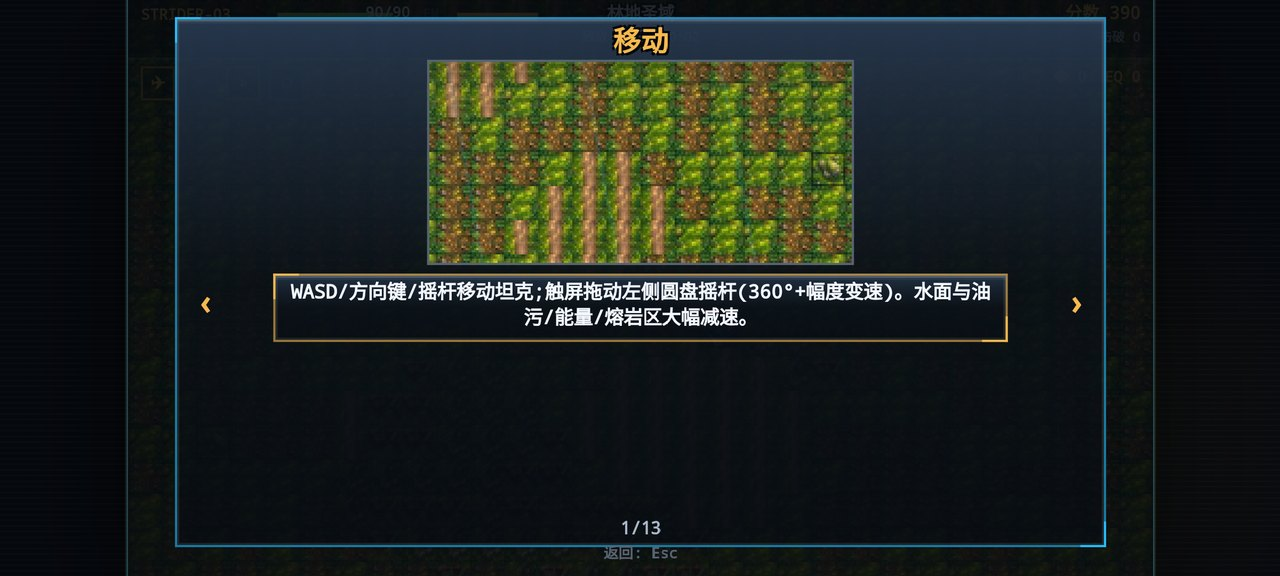
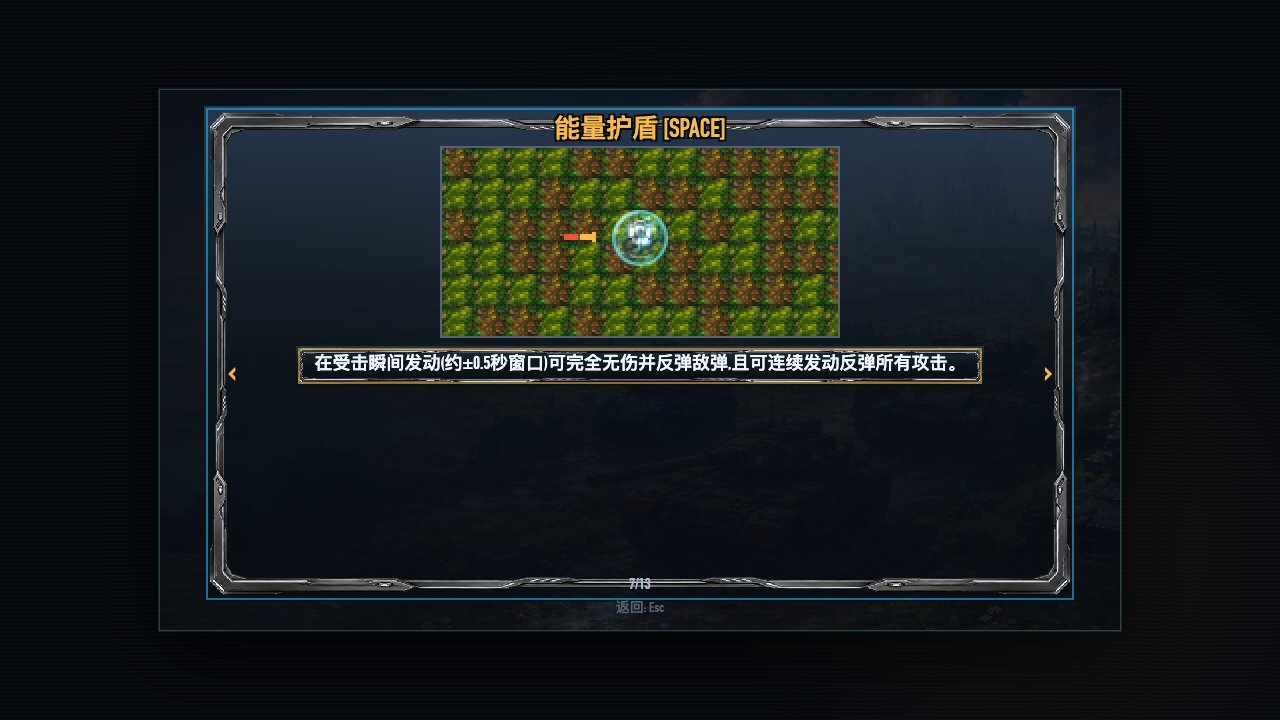
docs: README v1.8.1 — 全套新 UI 截图 + 文字说明
- 重拍 14 张 + 新增手机触屏 1 张 (tools/regress/shot_readme.js, 1280x720/640x360 jpg):
  新标题大图/九宫格面板/触屏图标按钮/整备页重排/多锁新准星(主框+节点+×N)
- v18-upgrade5.jpg 移除 (旧整备布局, 被 upgrade.jpg 取代); 新增 phone-battle.jpg
- 文字: 版本行 v1.8.1 UI 全面换装, 新增特色条目, 玻璃×金属九宫格 UI,
  触屏按钮即 HUD 描述, 资产管线补 ai-v18-layers/ai-v18-ui

Changed region(s): [[0.125, 0.0, 0.875, 0.9688]]

diff --git a/tools/regress/shot_readme.js b/tools/regress/shot_readme.js
@@ -1,0 +1,178 @@
+/* README 截图重拍 (v1.8.1 UI): node tools/regress/shot_readme.js
+   全部 1280x720 jpg (手机张 640x360) 直出 docs/img/。逐场景 try/catch, 结尾校验清单。 */
+'use strict';
+const fs = require('fs');
+const path = require('path');
+const { pathToFileURL } = require('url');
+const { chromium } = require('/Users/rancequan/.hermes/hermes-agent/node_modules/playwright-core');
+
+const CHROME_CANDIDATES = [
+  process.env.HOME + '/Library/Caches/ms-playwright/chromium-1234/chrome-mac-arm64/Google Chrome for Testing.app/Contents/MacOS/Google Chrome for Testing',
+  process.env.HOME + '/Library/Caches/ms-playwright/chromium-1228/chrome-mac/chrome-mac/Google Chrome for Testing.app/Contents/MacOS/Google Chrome for Testing',
+];
+const exe = CHROME_CANDIDATES.find(p => fs.existsSync(p));
+if (!exe) { console.error('no chromium found'); process.exit(1); }
+const GAME = path.join(__dirname, '..', '..', 'index.html');
+const IMG = path.join(__dirname, '..', '..', 'docs', 'img');
+
+(async () => {
+  fs.mkdirSync(IMG, { recursive: true });
+  const browser = await chromium.launch({ executablePath: exe, headless: true });
+  const shots = [];
+  async function snap(page, name, qw, qh) {
+    await page.screenshot({ type: 'jpeg', quality: 85, path: path.join(IMG, name) });
+    shots.push(name);
+    console.log('shot', name);
+  }
+  const waitPlay = (page) => page.waitForFunction(() => ST.state === 'play', null, { timeout: 9000 }).catch(() => console.log('WARN play timeout'));
+  const waitImg = (page, key) => page.waitForFunction(k => window.G.v18ui.info().loaded.includes(k), key, { timeout: 5000 }).catch(() => console.log('WARN img ' + key));
+
+  /* ---------- 桌面键盘 1280x720 ---------- */
+  const page = await browser.newPage({ viewport: { width: 1280, height: 720 } });
+  page.on('pageerror', e => console.log('PAGEERROR:', e.message));
+  await page.goto(pathToFileURL(GAME).href);
+  await page.waitForTimeout(700);
+
+  // 1. 标题 (新大图)
+  await page.evaluate(() => window.G.visualScene('title'));
+  await waitImg(page, 'title');
+  await page.waitForTimeout(1300);
+  await snap(page, 'title.jpg');
+
+  // 2. 选机体 (九宫格面板+实车预览)
+  await page.evaluate(() => { toTitle(); window.G.start(); });
+  await page.waitForTimeout(800);
+  await snap(page, 'hull-select.jpg');
+
+  // 3. 选僚机
+  await page.evaluate(() => menuActivate());
+  await page.waitForTimeout(600);
+  await snap(page, 'wingman-select.jpg');
+
+  // 4. 雪原战斗 (键盘图标芯片 HUD)
+  await page.evaluate(() => window.G.visualScene('combat'));
+  await page.waitForTimeout(700);
+  await snap(page, 'battle-snow.jpg');
+
+  // 5. 重装等离子护罩
+  await page.evaluate(() => { window.G.hull('heavy'); window.G.visualScene('shield'); });
+  await page.waitForTimeout(600);
+  await snap(page, 'shield-orb.jpg');
+
+  // 6. BOSS 与护卫队
+  await page.evaluate(() => window.G.visualScene('boss'));
+  await page.waitForTimeout(700);
+  await snap(page, 'boss-escort.jpg');
+
+  // 7. 战地整备 (新布局: 背景大图+维修台坦克+右侧面板)
+  await page.evaluate(() => {
+    MENU = null; RUN.pts = 8; RUN.up.hp = 5; RUN.up.spd = 2; RUN.up.atk = 12; RUN.up.def = 3; RUN.up.cdr = 7;
+    ST.state = 'upgrade'; ST.upg = { sel: 1, from: 'clear' };
+  });
+  await waitImg(page, 'dep');
+  await page.waitForTimeout(800);
+  await snap(page, 'upgrade.jpg');
+
+  // 8. 帮助页 (护盾页, 九宫格面板)
+  await page.evaluate(() => { toTitle(); openMenu('help'); MENU.page = 6; });
+  await page.waitForTimeout(600);
+  await snap(page, 'help.jpg');
+
+  // 9. 多锁导弹 (主锁定框+叠弹节点+×N)
+  await page.evaluate(() => {
+    window.G.visualScene('free');
+    const d1 = window.G.dummy('tank', player.x - 70, player.y - 20); d1.stun = 99; d1.hp = d1.maxHp = 3000;
+    const d2 = window.G.dummy('truck', player.x + 78, player.y + 26); d2.stun = 99; d2.hp = d2.maxHp = 3000;
+    player.mslCd = 0;
+  });
+  await page.waitForTimeout(200);
+  await page.keyboard.down('KeyL');
+  await page.waitForTimeout(950);
+  await snap(page, 'v18-multilock.jpg');
+  await page.keyboard.up('KeyL');
+
+  // 10. 护盾弹反粒子漩涡
+  await page.evaluate(() => { window.G.visualScene('free'); player.shieldT = 2; window.G.parryProbe(true); });
+  await page.waitForTimeout(500);
+  await snap(page, 'v18-swirl.jpg');
+
+  // 11. 冰面漂移 (彗尾+喷雪) — 沿冰河带行驶
+  await page.evaluate(() => {
+    window.G.skipTo(4);
+  });
+  await waitPlay(page);
+  await page.evaluate(() => {
+    window.G.visualScene('free');
+    const bandY = tx => { for (let ty = 1; ty < MAPH - 1; ty++) if (terr.m[ty * MAPW + tx] === 3) return ty; return -1; };
+    let bx = -1, bs = 1e9;
+    for (let tx = 3; tx < MAPW - 9; tx++) {
+      const ys = []; for (let k = 0; k < 7; k++) ys.push(bandY(tx + k));
+      if (ys.some(y => y < 0)) continue;
+      const spread = Math.max(...ys) - Math.min(...ys);
+      if (spread < bs) { bs = spread; bx = tx; }
+    }
+    if (bx >= 0) { const ty = bandY(bx + 3); window.G.tp((bx + 1) * TS, ty * TS + TS / 2); player.bodyA = player.ta = 0; }
+    window.__follow = setInterval(() => { const ty = bandY(Math.floor(player.x / TS)); if (ty > 0) player.y += ((ty * TS + TS / 2) - player.y) * 0.2; }, 30);
+  });
+  await page.keyboard.down('KeyD');
+  await page.keyboard.down('ShiftLeft');
+  await page.waitForTimeout(1500);
+  await snap(page, 'v18-drift.jpg');
+  await page.keyboard.up('KeyD');
+  await page.keyboard.up('ShiftLeft');
+  await page.evaluate(() => clearInterval(window.__follow));
+
+  /* ---------- 触屏 1280x720 ---------- */
+  const tp = await browser.newPage({ viewport: { width: 1280, height: 720 }, hasTouch: true, isMobile: true });
+  tp.on('pageerror', e => console.log('PAGEERROR(touch):', e.message));
+  await tp.goto(pathToFileURL(GAME).href);
+  await tp.waitForTimeout(700);
+  await tp.evaluate(() => { G.set('touch', 'on'); window.G.skipTo(0); });
+  await waitPlay(tp);
+
+  // 12. 沙漠触屏战斗 (图标按钮+双摇杆)
+  await tp.evaluate(() => {
+    window.G.visualScene('free');
+    const d1 = window.G.dummy('tank', player.x - 70, player.y - 40); d1.stun = 99; d1.hp = d1.maxHp = 900;
+    const d2 = window.G.dummy('truck', player.x + 84, player.y + 20); d2.stun = 99; d2.hp = d2.maxHp = 700;
+    window.G.dropTest('part'); window.G.dropTest('heal');
+    COMBO.n = 27; COMBO.tier = 2; COMBO.t = 5;
+  });
+  await tp.waitForTimeout(600);
+  await snap(tp, 'battle-desert.jpg');
+
+  // 13. 双摇杆战斗 (工业废墟)
+  await tp.evaluate(() => { window.G.visualScene('combat'); });
+  await tp.waitForTimeout(700);
+  await snap(tp, 'v18-dualstick.jpg');
+
+  // 14. 帮助页触屏按钮
+  await tp.evaluate(() => { toTitle(); openMenu('help'); MENU.page = 6; });
+  await tp.touchscreen.tap(60, 360);           // 触发 inMode=touch (左翻页区)
+  await tp.evaluate(() => { MENU.page = 6; });
+  await tp.waitForTimeout(500);
+  await snap(tp, 'v18-help-touch.jpg');
+
+  /* ---------- 手机 640x360 ---------- */
+  const ph = await browser.newPage({ viewport: { width: 640, height: 360 }, hasTouch: true, isMobile: true });
+  ph.on('pageerror', e => console.log('PAGEERROR(phone):', e.message));
+  await ph.goto(pathToFileURL(GAME).href);
+  await ph.waitForTimeout(700);
+  await ph.evaluate(() => { G.set('touch', 'on'); window.G.skipTo(0); });
+  await waitPlay(ph);
+  // 15. 手机触屏: 按钮即 HUD (图标+充能环+×N)
+  await ph.evaluate(() => { window.G.visualScene('hud'); player.mslCd = 0; });
+  await ph.waitForTimeout(500);
+  await ph.keyboard.down('KeyL');
+  await ph.waitForTimeout(900);
+  await snap(ph, 'phone-battle.jpg');
+  await ph.keyboard.up('KeyL');
+
+  await browser.close();
+  const expect = ['title.jpg', 'hull-select.jpg', 'wingman-select.jpg', 'battle-snow.jpg', 'shield-orb.jpg',
+    'boss-escort.jpg', 'upgrade.jpg', 'help.jpg', 'v18-multilock.jpg', 'v18-swirl.jpg', 'v18-drift.jpg',
+    'battle-desert.jpg', 'v18-dualstick.jpg', 'v18-help-touch.jpg', 'phone-battle.jpg'];
+  const missing = expect.filter(f => !shots.includes(f));
+  console.log('=== README SHOTS ' + shots.length + '/' + expect.length + (missing.length ? ' MISSING: ' + missing.join(',') : ' ALL OK ==='));
+  process.exit(missing.length ? 1 : 0);
+})();

diff --git a/README.md b/README.md
@@ -2,9 +2,9 @@
 
 横版坦克突击动作游戏：驾驶孤军坦克穿越**七大主题战场**，击破敌军、捡强化部件、弹反敌弹、轰穿 BOSS 与它的精英护卫队——通关后进入更高强度的下一周目，无限循环。
 
-**当前版本 v1.8.0「核心驾驶与战斗系统 2.0」**（Release 线：v1.7.2 手柄映射改键修复 → **v1.8.0 双摇杆炮塔独立瞄准 · 多锁导弹 · 惯性漂移 · 伤害管线 2.0**）
+**当前版本 v1.8.1「UI 全面换装」**（Release 线：v1.8.0 双摇杆炮塔独立瞄准 · 多锁导弹 · 惯性漂移 · 伤害管线 2.0 → **v1.8.1 AI 素材 UI 全面接入：标题大图 · 金属九宫格 · 图标武器 HUD · 触屏按钮即 HUD · 整备页重排**）
 
-> 架构里程碑线（vNext-v3.x）：v14 高清 AI 立绘 → v15 俯视 16 向单位 + 地形图集 → v1.5 七主题关卡与玻璃 UI → v1.6 机动特效与 BOSS 护卫队 → v1.7 手感三改（震动分级 / 冲刺残影 / 3D 等离子护罩）→ v1.7.1 残影彗尾化
+> 架构里程碑线（vNext-v3.x）：v14 高清 AI 立绘 → v15 俯视 16 向单位 + 地形图集 → v1.5 七主题关卡与玻璃 UI → v1.6 机动特效与 BOSS 护卫队 → v1.7 手感三改（震动分级 / 冲刺残影 / 3D 等离子护罩）→ v1.7.1 残影彗尾化 → v1.8.1 UI 资产换装
 
 - ▶ 在线游玩（GitHub Pages）：https://rance1230.github.io/steel-roar-tank-battle/
 - 📦 Android APK / 单文件 `index.html`：[GitHub Releases](https://github.com/rance1230/steel-roar-tank-battle/releases)
@@ -18,23 +18,23 @@
 |---|---|---|
 | ![标题画面](docs/img/title.jpg) | ![选择机体](docs/img/hull-select.jpg) | ![选择僚机](docs/img/wingman-select.jpg) |
 
-| 沙漠哨站·战斗（模拟摇杆+玻璃按键） | 雪原突围·主题战场 | 3D 等离子护罩 |
+| 沙漠哨站·触屏战斗（图标按键+双摇杆） | 雪原突围·主题战场 | 3D 等离子护罩 |
 |---|---|---|
 | ![沙漠战斗](docs/img/battle-desert.jpg) | ![雪原战斗](docs/img/battle-snow.jpg) | ![能量护盾](docs/img/shield-orb.jpg) |
 
-| BOSS 与精英护卫队 | 战地整备（局内成长） | 内置操作说明（13 页） |
+| BOSS 与精英护卫队 | 战地整备（维修台实时坦克+部件面板） | 内置操作说明（13 页） |
 |---|---|---|
 | ![BOSS战](docs/img/boss-escort.jpg) | ![战地整备](docs/img/upgrade.jpg) | ![操作说明](docs/img/help.jpg) |
 
 **v1.8 新系统截图**
 
-| 双摇杆战斗（触屏双虚拟摇杆） | 多锁导弹 · 六重叠锁准星 | 护盾弹反 · 蓝白粒子漩涡 |
+| 双摇杆战斗（移动+瞄准独立） | 多锁导弹 · 主锁定框+叠弹节点 ×N | 护盾弹反 · 蓝白粒子漩涡 |
 |---|---|---|
 | ![双摇杆](docs/img/v18-dualstick.jpg) | ![多锁](docs/img/v18-multilock.jpg) | ![漩涡](docs/img/v18-swirl.jpg) |
 
-| 冰面漂移 · 履带拖印与喷雪 | 战地整备 · 五维培养（+冷却加速） | 帮助页 · 触屏可见按钮 |
+| 冰面漂移 · 履带拖印与喷雪 | 触屏按钮即 HUD（图标+充能环+×N 锁数） | 帮助页 · 触屏可见按钮 |
 |---|---|---|
-| ![漂移](docs/img/v18-drift.jpg) | ![整备5行](docs/img/v18-upgrade5.jpg) | ![帮助触屏](docs/img/v18-help-touch.jpg) |
+| ![漂移](docs/img/v18-drift.jpg) | ![触屏HUD](docs/img/phone-battle.jpg) | ![帮助触屏](docs/img/v18-help-touch.jpg) |
 
 ---
 
@@ -56,9 +56,10 @@
 - **v1.8 护盾弹反增强**：连发护盾（短真空设计，无永久盾）；同帧多发来袭一次性全部反弹并合并为更强反馈（顿帧+强震+×N 浮字）；弹反瞬间蓝白圆形粒子漩涡，完美格挡漩涡更大更快更亮。
 - **v1.8 战斗再平衡**：敌军耐久上调（坦克 ×1.7 / 卡车 ×1.5）且 L4+ 射速 +10%；我方武器数值下调换取战斗时长；坦克学会侧闪（履带亮光预警 → 0.12-0.3s 反应延迟横移，高难度更机警）；冲撞改为高风险高回报——非 BOSS 直接碾杀（CRUSH!），BOSS 大伤害+硬直但永不即杀。
 - **v1.8 冷却加速培养**：战地整备第五维「冷却加速」——技能冷却全额收益、武器冷却减半收益，导弹/空袭/护盾/机枪/主炮全面提速；护盾按硬性间隔公式永不可能连成永久无敌。
+- **v1.8.1 UI 全面换装（AI 素材接入）**：日系明亮标题大图、金属九宫格面板（标题/菜单/暂停/结算/整备全套）、七枚武器图标、单位徽章、车库整备背景；触屏**按钮即 HUD**——虚拟按键自带武器图标、蓄力/冷却环形进度、×N 锁数角标与亮度分层（就绪高亮/冷却灰化，不再另画重复武器栏）；多锁准星重构为每目标**单主锁定框+外围叠弹节点+×N**；整备页重排为维修台实时坦克（炮塔缓转展示）+右侧部件面板；通关卡附实时坦克徽章。所有状态由代码渲染，不生成状态变体图片。
 - **机动表现**：触屏模拟摇杆 360° 变速、冲刺残影、按地形出扬尘/水花/减速粒子。
 - **Roguelite 成长**：每关后「战地整备」用部件升级装甲/速度/攻击/防御（可全额退回重分），通关进入下一周目，强化全部继承。
-- **玻璃拟态 UI**：标题/菜单/整备/结算全套玻璃面板，虚拟按键为圆形玻璃按钮 + 摇杆圆环。
+- **玻璃 × 金属九宫格 UI**：菜单/暂停/结算为金属九宫格面板，战斗 HUD 极简芯片化；虚拟按键为圆形玻璃按钮 + 武器图标 + 摇杆圆环。
 - 中 / 日 / 英三语 · 5 档难度 · 键盘/触屏/手柄三种操作（手柄即插即用，可自定义映射）· 13 页内置图文帮助。
 
 ## 快速上手（键盘）
@@ -76,7 +77,7 @@
 | Enter | 确认 / 跳过开场 |
 | M | 静音 · F3 性能面板 |
 
-触屏：自动显示虚拟摇杆与圆形玻璃按键；手柄：即插即用，OPTION→手柄映射可自定义。安卓返回键按两次退出。
+触屏：自动显示双虚拟摇杆与图标玻璃按键（武器图标+充能/冷却环+×N 锁数，按钮即 HUD）；手柄：即插即用，OPTION→手柄映射可自定义。安卓返回键按两次退出。
 
 ### 隐藏秘籍（标题画面开启 DEBUG MODE）
 
@@ -97,5 +98,5 @@
 ## 开发
 
 - **架构**：`src/` 模块化源码（开发用 `index.dev.html`），`node build.js` 构建单文件 `index.html`；逻辑固定 60Hz 与刷新率解耦，渲染插值 + 对象池 + 空间网格，性能不足时 AUTO 档只降特效不降逻辑。
-- **资产管线**：`tools/`（Python）装配 AI 立绘/地形/开场图 → 内嵌数据文件（`src/data/*.data.js`）；`assets/ai-v14/`、`assets/ai-v15-topdown/`、`assets/stage-intros/`。
+- **资产管线**：`tools/`（Python）装配 AI 立绘/地形/开场图/UI 素材 → 内嵌数据文件（`src/data/*.data.js`）；`assets/ai-v14/`、`assets/ai-v15-topdown/`、`assets/ai-v18-layers/`、`assets/ai-v18-ui/`、`assets/stage-intros/`。
 - **部署**：推送 `main` 自动发布 GitHub Pages；APK 与单文件随 [GitHub Releases](https://github.com/rance1230/steel-roar-tank-battle/releases) 发布。
